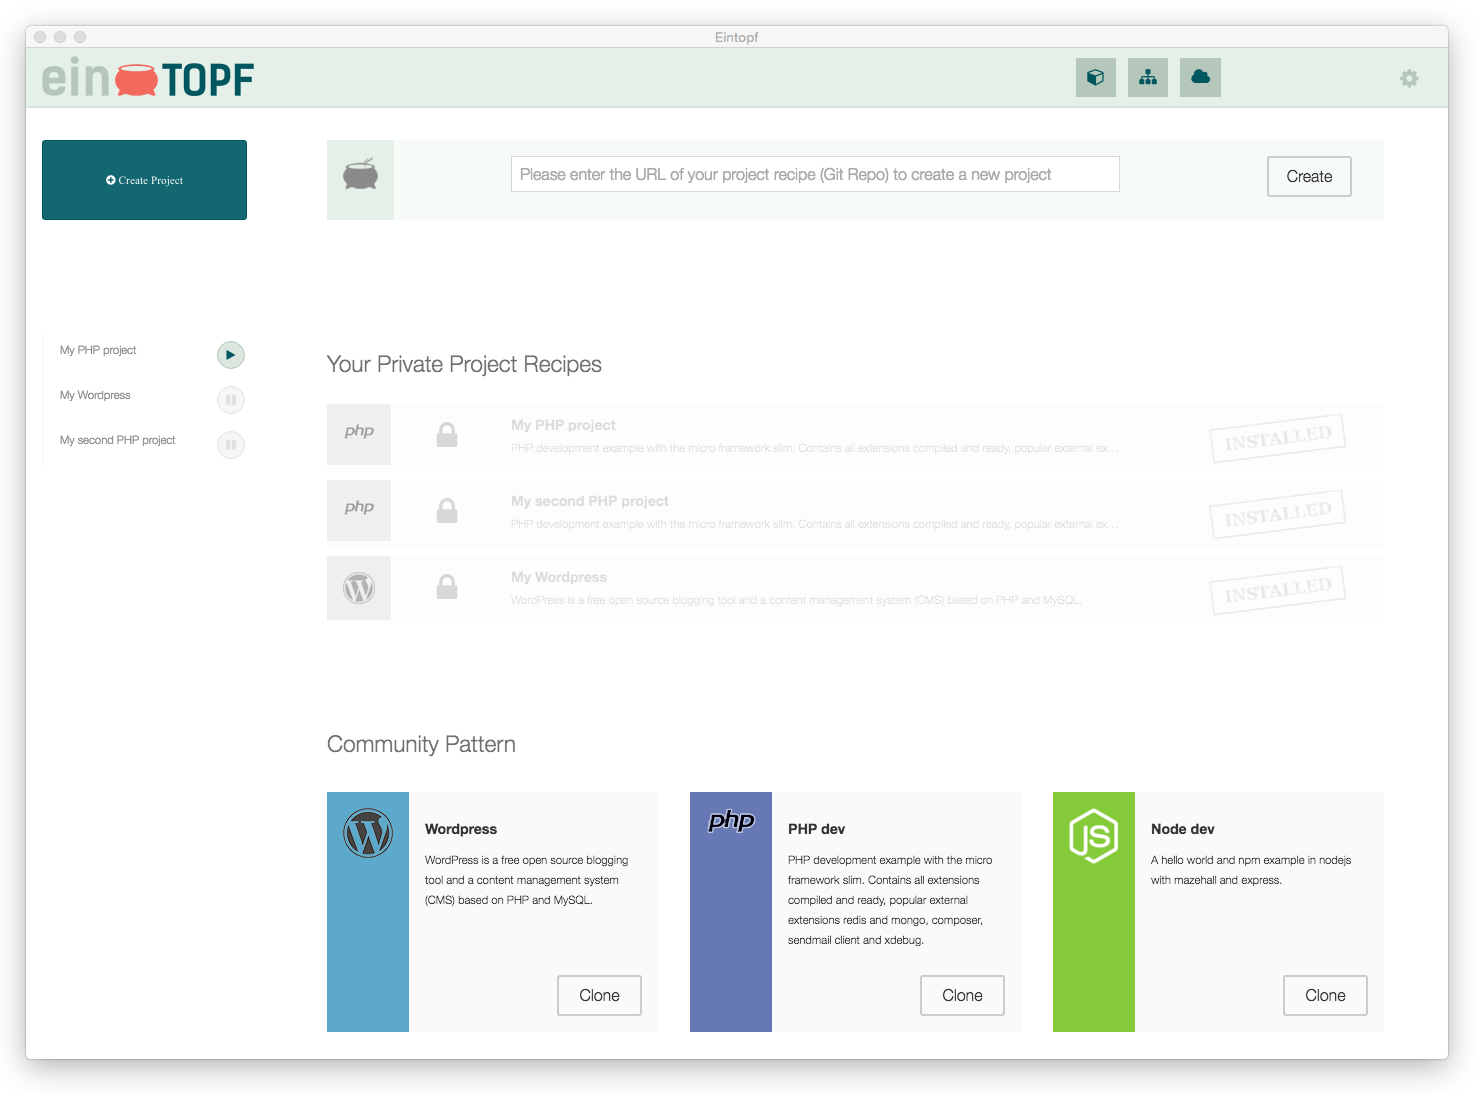
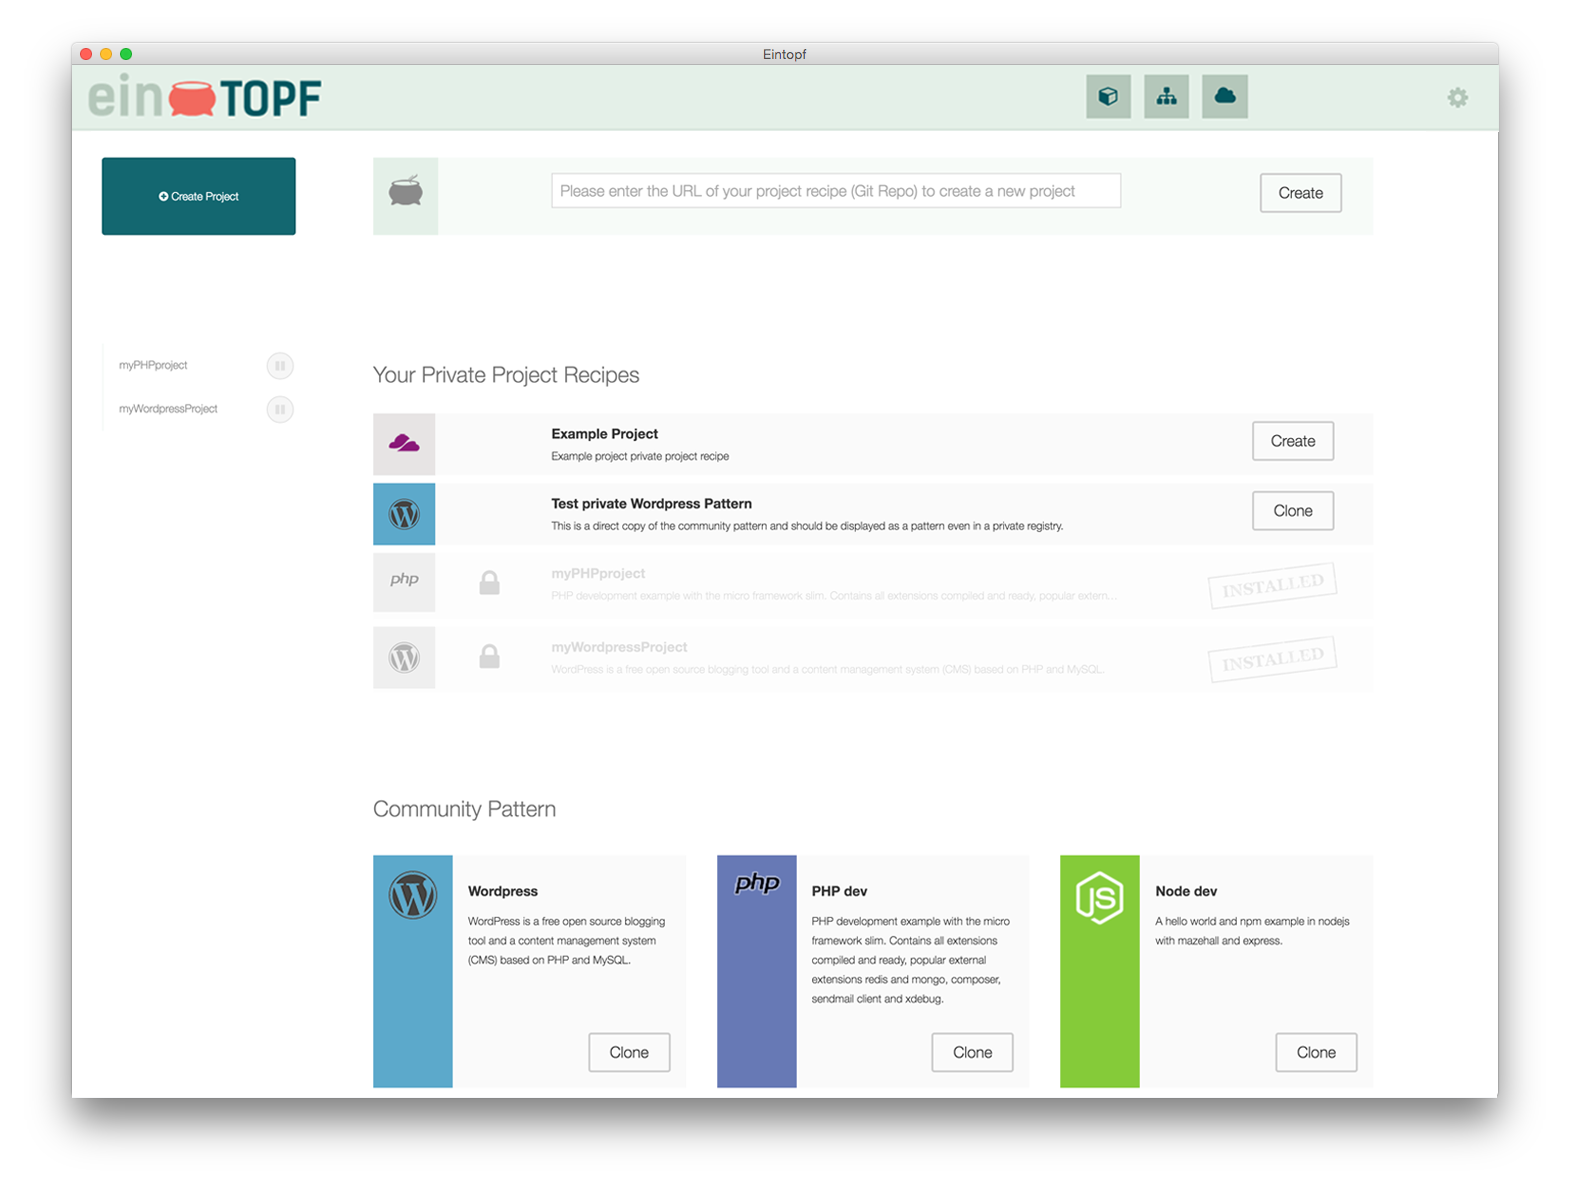
image screnn start angepasst

diff --git a/src/public/css/local.css b/src/public/css/local.css
@@ -32,6 +32,9 @@ button{
 .cssBgGreenAlpha{
     background-color: rgba(228, 240, 232, 0.3);
 }
+.cssBgRed{
+    background-color: rgba(242, 105, 94, 1.0);
+}
 .cssBgRedAlpha{
     background-color: rgba(242, 105, 94, 0.3);
 }
@@ -250,6 +253,9 @@ button{
 .cssSidebar .media .media-figure{
     margin-left:1em;
     margin-right:0;
+}
+.cssSidebar .media .media-body{
+    line-height:1.8rem;
 }
 .btn-round{
     border-radius: 50%;
@@ -767,20 +773,21 @@ li.cssPanelBox:hover{
 /* -------------- popover ----------------- */
 .ns-popover-list-theme.ns-popover-left-placement.ns-popover-top-align{
     max-width:6rem;
+    min-width:20rem;
 }
 .ns-popover-list-theme {
     z-index:1040;
-    min-width:20rem;
+
 }
 .cssPopover{
     box-sizing: border-box;
-    border: solid 1px #d8d8d8;
-    border-radius: 5px;
-    background-color: #fff;
+
     margin-top:20px;
-    -webkit-box-shadow: 0 0.3125rem 0.625rem rgba(0, 0, 0, 0.2);
-    -moz-box-shadow: 0 0.3125rem 0.625rem rgba(0, 0, 0, 0.2);
-    box-shadow: 0 0.3125rem 0.625rem rgba(0, 0, 0, 0.2);
+
+    color:#fff;
+}
+.cssPopover .grd-row{
+    border-radius: 2px;
 }
 .cssPopover.recipe{
     box-sizing: border-box;
@@ -788,6 +795,7 @@ li.cssPanelBox:hover{
     border-radius: 5px;
     background-color: #fff;
     margin-top:0px;
+    padding-top:10px;
     margin-right:-30px;
     -webkit-box-shadow: 0 0.3125rem 0.625rem rgba(0, 0, 0, 0.2);
     -moz-box-shadow: 0 0.3125rem 0.625rem rgba(0, 0, 0, 0.2);
@@ -811,26 +819,25 @@ li.cssPanelBox:hover{
     border-color: transparent;
     position: absolute;
 }
-.ns-popover-bottom-placement .triangle{
-    border-bottom-color:#e1e1e1;
+.ns-popover-bottom-placement .triangle.on{
+    border-bottom-color:rgba(19, 103, 112, 1.0);
+    left:50%;
+    top: -21px;
+    margin-left: -10px;
+}
+.ns-popover-bottom-placement .triangle.off{
+    border-bottom-color:rgba(242, 105, 94, 1.0);
     left:50%;
     top: -21px;
     margin-left: -10px;
 }
 .cssPopoverHead{
-    border-bottom:1px solid #ccc;
-    -moz-border-radius: 5px 5px 0px 0px / 5px 5px;
-    border-radius: 5px 5px 0px 0px / 5px 5px;
-    background-color:#e1e1e1;
-}
-.cssPopoverHeaderTitle{
-   position:relative;
-    border-bottom:1px solid #ccc;
+
 }
 .cssPopoverHeaderCloseBtn{
     position:absolute;
-    top:0;
-    right:0;
+    top:5px;
+    right:-20px;
 }
 .cssPopoverFooter{
     border-top:1px solid #ccc;

diff --git a/src/public/partials/pop.net.html b/src/public/partials/pop.net.html
@@ -1,43 +1,12 @@
-<div class="triangle"></div>
+<div class="triangle" ng-class="states.internet? 'on' : 'off'"></div>
 <div class="grd m0 p0 cssPopover">
-    <div class="grd-row cssPopoverHead ">
-        <div class="grd-row-col-6 p05">
-            <div class="px1 m0 txt--center">
-
-                <span class="px1">Internet</span>
+    <div class="grd-row ">
+        <div class="grd-row-col-6 p0">
+            <div class="p1 m0 small" ng-class="states.internet? 'cssBgDarkGreen' : 'cssBgRed'">
+                <i class="fa" ng-class="states.internet? 'fa-check-circle fnt-eintopf-green' : 'fa-ban'"></i>
+                <span>Internet</span>
+                <span>{{states.internet? 'is connected' : 'is not connected'}}</span>
             </div>
-        </div>
-    </div>
-    <div class="grd-row cssPopoverBody">
-        <div class="grd-row-col-6 cssBgWhite">
-            <div class="m0 p1">
-                <ul class="list--unstyled m0 p1">
-                    <li class="grd-row">
-                        <a href="" class="grd-row-col-6">test</a>
-                    </li>
-                    <li>
-                        <a href="" class="grd-row-col-6">test</a>
-                    </li>
-                </ul>
-            </div>
-        </div>
-    </div>
-    <div class="grd-row cssPopoverFooter ">
-        <div class="grd-row-col-6 p05">
-
-            <div class="px1 m0" ng-if="states.internet">
-                <i class="fa fa-check-circle fnt--green"></i>
-                <span class="small px1">
-                  connected
-                </span>
-            </div>
-
-            <div class="px1 m0 fnt--red" ng-if="!states.internet">
-                <i class="fa fa-ban">
-                    <span class="small px1">not connection</span>
-                </i>
-            </div>
-
         </div>
     </div>
 </div>

diff --git a/src/public/partials/pop.proxy.html b/src/public/partials/pop.proxy.html
@@ -1,39 +1,19 @@
-<div class="triangle"></div>
+<div class="triangle" ng-class="states.proxy? 'on' : 'off'"></div>
 <div class="grd m0 p0 cssPopover">
-    <div class="grd-row cssPopoverHead ">
-        <div class="grd-row-col-6 p05">
-            <div class="px1 m0 txt--center">
-                <span class="px1">Proxy</span>
+    <div class="grd-row ">
+        <div class="grd-row-col-6 p0">
+            <div class="p1 m0 small" ng-class="states.proxy? 'cssBgDarkGreen' : 'cssBgRed'">
+                <i class="fa" ng-class="states.proxy? 'fa-check-circle fnt-eintopf-green' : 'fa-ban'"></i>
+                <span>Proxy</span>
+                <span>{{states.proxy? 'is running' : 'is not running'}}
 
-            </div>
-        </div>
-    </div>
-    <div class="grd-row cssPopoverBody">
-      <div class="grd-row-col-6 cssBgWhite">
-          <div class="m0 p1 bg--red" ng-if="states.proxyError">
-            {{states.proxyError}}
-          </div>
-      </div>
-    </div>
-    <div class="grd-row cssPopoverFooter ">
-        <div class="grd-row-col-6 p05">
-
-            <div class="px1 m0" ng-if="states.proxy">
-                <i class="fa fa-check-circle fnt--green"></i>
-                <span class="small px1">
-                  is running
                 </span>
+                 <div class="m0 p0" {{states.proxyError?}}>
+                     {{states.proxyError}}
+                 </div>
             </div>
-
-            <div class="px1 m0 fnt--red" ng-if="!states.proxy">
-                <i class="fa fa-ban">
-                    <span class="small px1">
-                      is not running
-                    </span>
-                </i>
-            </div>
-
         </div>
     </div>
 </div>
+
 

diff --git a/src/public/partials/pop.vm.html b/src/public/partials/pop.vm.html
@@ -1,38 +1,12 @@
-<div class="triangle"></div>
+<div class="triangle" ng-class="states.vagrant? 'on' : 'off'"></div>
 <div class="grd m0 p0 cssPopover">
-    <div class="grd-row cssPopoverHead ">
-        <div class="grd-row-col-6 p05">
-            <div class="px1 m0 txt--center">
-
-                <span class="px1">Virtual Machine</span>
+    <div class="grd-row ">
+        <div class="grd-row-col-6 p0">
+            <div class="p1 m0 small" ng-class="states.vagrant? 'cssBgDarkGreen' : 'cssBgRed'">
+                <i class="fa" ng-class="states.vagrant? 'fa-check-circle fnt-eintopf-green' : 'fa-ban'"></i>
+                <span>Virtual Machine</span>
+                <span>{{states.vagrant? 'is running' : 'is not running'}}</span>
             </div>
-        </div>
-    </div>
-    <div class="grd-row cssPopoverBody">
-        <div class="grd-row-col-6 cssBgWhite">
-            <div class="m0 p1">
-
-                </div>
-        </div>
-    </div>
-    <div class="grd-row cssPopoverFooter ">
-        <div class="grd-row-col-6 p05">
-
-          <div class="px1 m0" ng-if="states.vagrant">
-            <i class="fa fa-check-circle fnt--green"></i>
-                <span class="small px1">
-                  is running
-                </span>
-          </div>
-
-          <div class="px1 m0 fnt--red" ng-if="!states.vagrant">
-            <i class="fa fa-ban">
-                <span class="small px1">
-                  is not running
-                </span>
-            </i>
-          </div>
-
         </div>
     </div>
 </div>

diff --git a/src/public/partials/cooking.html b/src/public/partials/cooking.html
@@ -7,28 +7,26 @@
 
       <ul class="list--unstyled flt--right m0 p0">
         <li class="flt--left" ng-class="states.vagrant? 'on' : 'off'">
-          <button ns-popover="false" class="cssIcon"
+          <button ns-popover class="cssIcon"
                   ns-popover-active-class="active"
-                  ns-popover-template="partials/pop.vm.html"
-                  title="VM status">
+                  ns-popover-template="partials/pop.vm.html">
             <i class="fa fa-cube"></i>
           </button>
 
         </li>
         <li class="flt--left" ng-class="states.proxy? 'on' : 'off'">
-          <button ns-popover="false" class="cssIcon"
+          <button ns-popover class="cssIcon"
                   ns-popover-active-class="active"
-                  ns-popover-template="partials/pop.proxy.html"
-                  title="Proxy status">
+                  ns-popover-template="partials/pop.proxy.html">
+
             <i class="fa fa-sitemap"></i>
           </button>
           </a>
         </li>
         <li class="flt--left" ng-class="states.internet? 'on' : 'off'">
-          <button ns-popover="false" class="cssIcon"
+          <button ns-popover class="cssIcon"
                   ns-popover-active-class="active"
-                  ns-popover-template="partials/pop.net.html"
-                  title="Internet connectivity">
+                  ns-popover-template="partials/pop.net.html">
             <i class="fa fa-cloud"></i>
           </button>
 

diff --git a/src/public/partials/cooking.projects.recipe_menu.html b/src/public/partials/cooking.projects.recipe_menu.html
@@ -2,8 +2,8 @@
 <div class="triangle"></div>
 <div class="grd m0 p0 cssPopover recipe">
     <div class="grd-row ">
-        <div class="grd-row-col-6 p05 m0">
-            <div class="p05 m0 txt--center cssPopoverHeaderTitle">
+        <div class="grd-row-col-6 p0 m0">
+            <div class="p0 m0 cssPopoverHeaderTitle">
                 <span class="px1 fnt--mid-gray">Project actions</span>
                 <button class="cssPopoverHeaderCloseBtn close icon-x fnt--light-gray" ng-click="hidePopover()">
                     <i class="fa fa-close"></i>
@@ -45,8 +45,8 @@
         <div class="grd-row-col-6 p05">
 
             <div class=" p05">
-                <p class="small m0 py05 cssPopoverFooterBorder">Description:</p>
-                <p class="small m0 py05 ">{{project.description}}</p>
+                <p class="small m0 py05 cssPopoverFooterBorder fnt--mid-gray">Description:</p>
+                <p class="small m0 py05 fnt--mid-gray">{{project.description}}</p>
             </div>
 
 

diff --git a/src/public/partials/cooking.projects.html b/src/public/partials/cooking.projects.html
@@ -19,7 +19,7 @@
              ui-sref="cooking.projects.recipe({id: project.id})" ui-sref-active='active'>
             <div class="media">
 
-              <div class="media-body txt--left">
+              <div class="media-body txt--left cssNowrap">
                 <p class="small m0 p0 cssNowrap">
                   {{project.name}}
                 </p>
